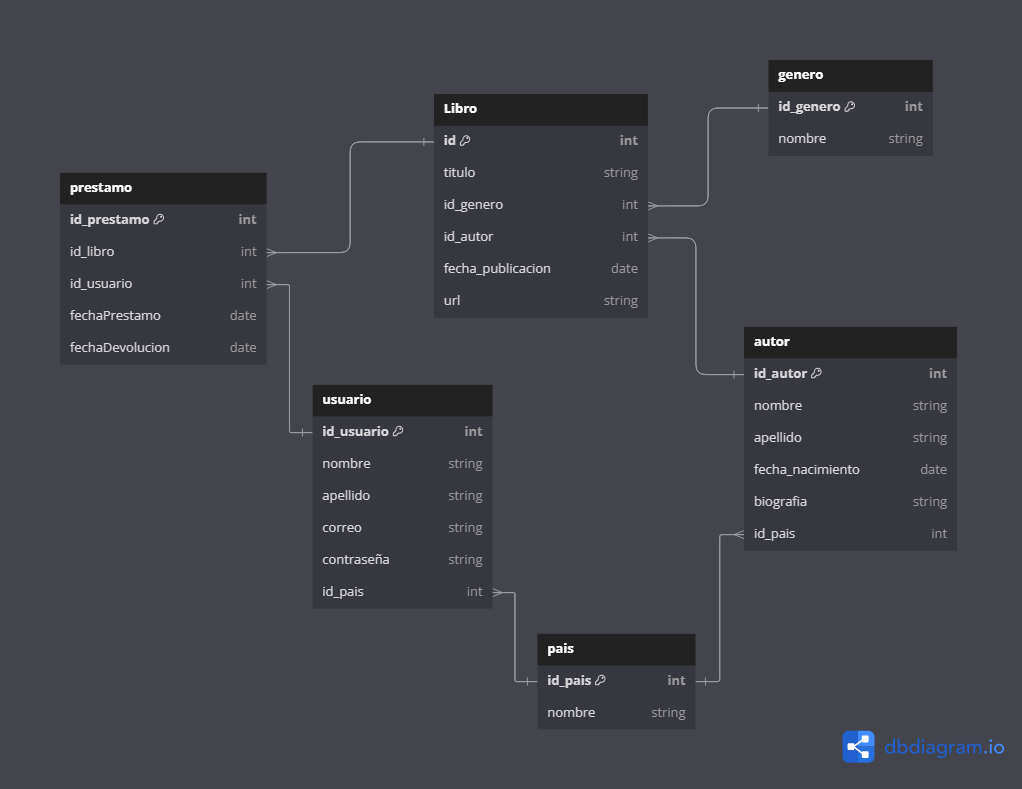
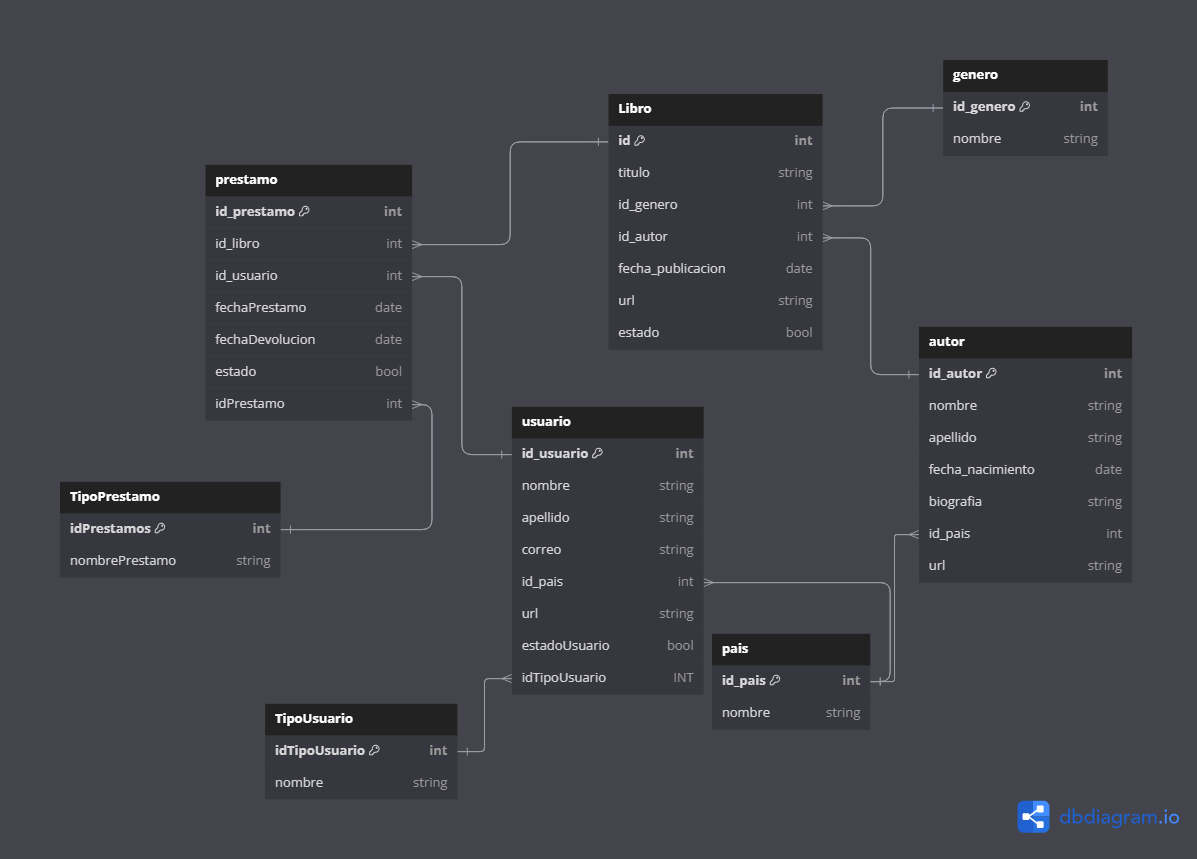
actualizacion del DER correciones profes

diff --git a/backend/database/models/Prestamo.model.js b/backend/database/models/Prestamo.model.js
@@ -1,9 +1,9 @@
 import { sequelize } from "../db.js";
 import { DataTypes } from "sequelize";
 import Libro from "./Libro.model.js";
-import { Usuario } from "./Usuario.model.js";
-
-export const Prestamo = sequelize.define(
+import  Usuario  from "./Usuario.model.js";
+import { TipoPrestamo } from "./TipoPrestamo.model.js";
+const Prestamo = sequelize.define(
     "Prestamo",
     {
         id: {
@@ -28,10 +28,20 @@ export const Prestamo = sequelize.define(
             type: DataTypes.DATE,
             allowNull: true,
         },
+        estado: {
+            type:DataTypes.BOOLEAN,
+            defaultValue: true
+        },
+        id_tipo_prestamo: {
+            type: DataTypes.INTEGER,
+            allowNull: false,
+        },
     },
     //comando opcionales
     {
-        timestamps: false,
+        sequelize,
+        paranoid: true,
+        timestamps: true,
     }
 );
 
@@ -40,3 +50,10 @@ Libro.hasMany(Prestamo, { foreignKey: "id_libro" });
 
 Prestamo.belongsTo(Usuario, { foreignKey: "id_usuario" });
 Usuario.hasMany(Prestamo, { foreignKey: "id_usuario" });
+
+Prestamo.belongsTo(TipoPrestamo, { foreignKey: "id_tipo_prestamo" });
+TipoPrestamo.hasMany(Prestamo, { foreignKey: "id_tipo_prestamo" });
+
+
+
+export default TipoPrestamo

diff --git a/backend/database/models/Usuario.model.js b/backend/database/models/Usuario.model.js
@@ -1,8 +1,8 @@
 import { sequelize } from "../db.js";
 import { DataTypes } from "sequelize";
 import { Pais } from "./Pais.model.js"
-
-export const Usuario = sequelize.define(
+import { TipoUsuario } from "./TipoUsuario.js";
+const Usuario = sequelize.define(
   "Usuario",
   {
     id_usuario: {
@@ -29,20 +29,26 @@ export const Usuario = sequelize.define(
     id_pais: {
       type: DataTypes.INTEGER,
       allowNull: false,
+    },
+    id_tipo_usuario: {
+      type: DataTypes.INTEGER,
+      allowNull: false,
     }
   },
   //comando opcionales
   {
-    timestamps: false,
+        sequelize,
+        paranoid: true,
+        timestamps: true,
   }
 );
 // Pais tiene muchos usuarios, y usario tiene un pais
 Pais.hasMany(Usuario, { foreignKey: 'id_pais' });
 Usuario.belongsTo(Pais, { foreignKey: 'id_pais' });
 
+TipoUsuario.hasMany(Usuario, { foreignKey: 'id_tipo_usuario' });
+Usuario.belongsTo(TipoUsuario, { foreignKey: 'id_tipo_usuario' });
 
-//Usuario tiene un país
-Usuario.belongsTo(Pais, {foreignKey: "id_pais"})
-//País tiene muchos usuarios
-Pais.hasMany(Usuario, {foreignKey: "id_pais"})
 
+
+export default Usuario

diff --git a/backend/database/models/TipoUsuario.js b/backend/database/models/TipoUsuario.js
@@ -1,18 +1,17 @@
 import { sequelize } from "../db.js";
 import { DataTypes } from "sequelize";
 
-export const Pais = sequelize.define(
-    "Pais",
+export const TipoUsuario = sequelize.define('TipoUsuario',
     {
-        id_pais: {
+        id_tipo_usuario : {
             type: DataTypes.INTEGER,
             autoIncrement: true,
             primaryKey: true,
         },
-        nombre: {
-            type: DataTypes.TEXT,
+        nombre_tipo_usuario: {
+            type: DataTypes.STRING,
             allowNull: false,
-        },
+        }
     },
     {
         sequelize,
@@ -20,3 +19,4 @@ export const Pais = sequelize.define(
         timestamps: true,
     }
 )
+

diff --git a/backend/database/models/TipoPrestamo.model.js b/backend/database/models/TipoPrestamo.model.js
@@ -1,18 +1,17 @@
 import { sequelize } from "../db.js";
 import { DataTypes } from "sequelize";
 
-export const Pais = sequelize.define(
-    "Pais",
+export const TipoPrestamo = sequelize.define('TipoPrestamo',
     {
-        id_pais: {
+        id_prestamo : {
             type: DataTypes.INTEGER,
             autoIncrement: true,
             primaryKey: true,
         },
-        nombre: {
-            type: DataTypes.TEXT,
+        nombre_prestamo: {
+            type: DataTypes.STRING,
             allowNull: false,
-        },
+        }
     },
     {
         sequelize,

diff --git a/backend/controllers/prestamo.controllers.js b/backend/controllers/prestamo.controllers.js
@@ -1,6 +1,6 @@
-import { Prestamo } from "../database/models/Prestamo.model.js";
+import  Prestamo  from "../database/models/Prestamo.model.js";
 import Libro from "../database/models/Libro.model.js";
-import { Usuario } from "../database/models/Usuario.model.js";
+import  Usuario  from "../database/models/Usuario.model.js";
 
 export const getPrestamos = async (req, res) => {
     try {

diff --git a/backend/controllers/usuario.controllers.js b/backend/controllers/usuario.controllers.js
@@ -1,4 +1,4 @@
-import { Usuario } from "../database/models/Usuario.model.js";
+import  Usuario from "../database/models/Usuario.model.js";
 import { Pais } from "../database/models/Pais.model.js";
 
 export const getUsers = async (req, res) => {
